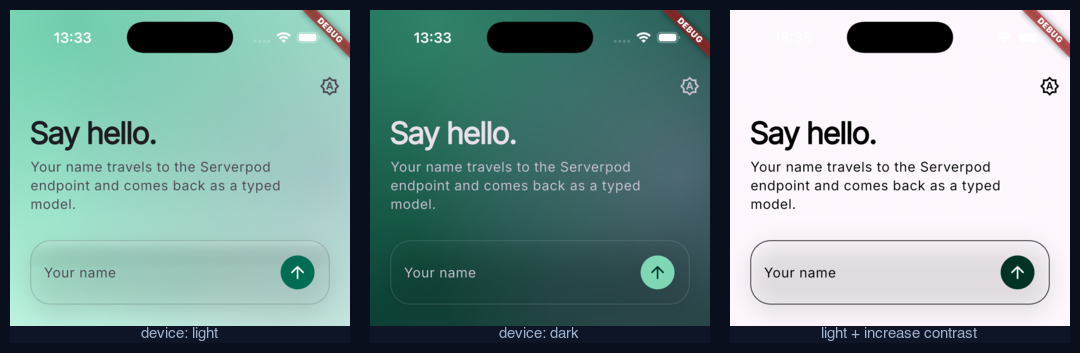
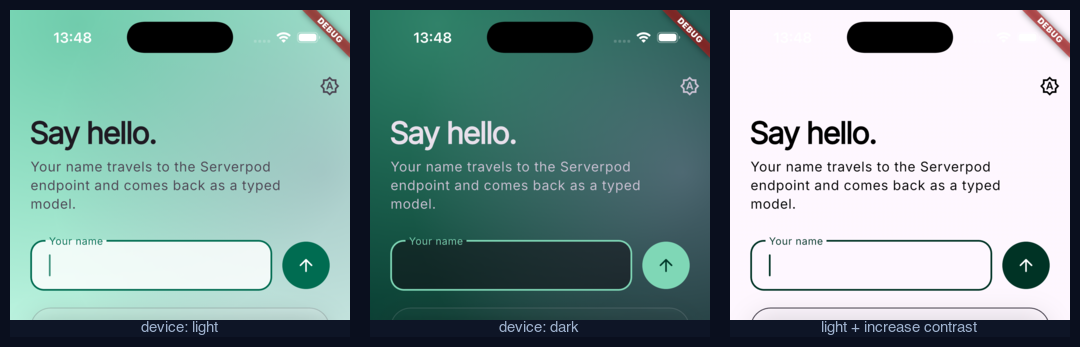
fix: make a field look like a field, and put translucency on a dial

diff --git a/flutter_full_stack_flutter/lib/theme/app_tokens.dart b/flutter_full_stack_flutter/lib/theme/app_tokens.dart
@@ -26,14 +26,27 @@ class AppTokens extends ThemeExtension<AppTokens> with _$AppTokensTailorMixin {
     required this.auroraOne,
     required this.auroraTwo,
     required this.auroraThree,
+    required this.wellFill,
+    required this.wellBorder,
   });
 
   /// Derives the tokens for [scheme].
   ///
-  /// With [highContrast] the glass stops being glass: the blur goes to zero
-  /// and the fill becomes opaque, because a translucent surface cannot honour
-  /// a contrast request. Callers do not branch on it — they read the tokens.
-  factory AppTokens.of(ColorScheme scheme, {required bool highContrast}) {
+  /// [paneTranslucency] and [wellTranslucency] are how see-through each
+  /// material is, from `0` (fully opaque) to `1` (as glassy as the design
+  /// goes). They are separate because the two materials want different
+  /// answers: a card can afford to be barely there, while a field holds text
+  /// the user is reading back as they type.
+  ///
+  /// With [highContrast] both are forced to zero: the glass stops being glass,
+  /// because a translucent surface cannot honour a contrast request. Callers
+  /// do not branch on any of this — they read the tokens.
+  factory AppTokens.of(
+    ColorScheme scheme, {
+    required bool highContrast,
+    required double paneTranslucency,
+    required double wellTranslucency,
+  }) {
     if (highContrast) {
       return AppTokens(
         backdropTop: scheme.surface,
@@ -49,24 +62,43 @@ class AppTokens extends ThemeExtension<AppTokens> with _$AppTokensTailorMixin {
         auroraOne: Colors.transparent,
         auroraTwo: Colors.transparent,
         auroraThree: Colors.transparent,
+        wellFill: scheme.surface,
+        wellBorder: scheme.outline,
       );
     }
 
     final isDark = scheme.brightness == Brightness.dark;
+    final pane = paneTranslucency.clamp(0.0, 1.0);
+    final well = wellTranslucency.clamp(0.0, 1.0);
+
     return AppTokens(
       backdropTop: scheme.primaryContainer,
       backdropBottom: scheme.surface,
-      glassTint: scheme.surface.withValues(alpha: isDark ? 0.18 : 0.55),
+      glassTint: scheme.surface.withValues(
+        alpha: _translucent(isDark ? 0.18 : 0.55, pane),
+      ),
       glassBorder: scheme.onSurface.withValues(alpha: isDark ? 0.16 : 0.22),
-      glassHighlight: Colors.white.withValues(alpha: isDark ? 0.06 : 0.35),
-      glassBlur: isDark ? 18 : 14,
+      glassHighlight: Colors.white.withValues(
+        alpha: (isDark ? 0.06 : 0.35) * pane,
+      ),
+      // Blur follows translucency: a frost nothing shows through is a
+      // BackdropFilter paying for an effect no one can see.
+      glassBlur: (isDark ? 18 : 14) * pane,
       radiusLarge: _radiusLarge,
       radiusMedium: _radiusMedium,
       auroraOne: scheme.primary.withValues(alpha: isDark ? 0.38 : 0.30),
       auroraTwo: scheme.tertiary.withValues(alpha: isDark ? 0.32 : 0.26),
       auroraThree: scheme.secondary.withValues(alpha: isDark ? 0.26 : 0.20),
+      wellFill: scheme.surfaceContainerLowest.withValues(
+        alpha: _translucent(isDark ? 0.55 : 0.82, well),
+      ),
+      wellBorder: scheme.outlineVariant,
     );
   }
+
+  /// Interpolates between opaque and [glassy] by [t], so `0` always means
+  /// solid regardless of what the glassy end of the scale happens to be.
+  static double _translucent(double glassy, double t) => 1 - t * (1 - glassy);
 
   static const _radiusLarge = 24.0;
   static const _radiusMedium = 16.0;
@@ -119,4 +151,18 @@ class AppTokens extends ThemeExtension<AppTokens> with _$AppTokensTailorMixin {
   /// Third aurora pool.
   @override
   final Color auroraThree;
+
+  /// Fill for a control the user types into.
+  ///
+  /// Deliberately not [glassTint]. A glass pane is *raised* — outer shadow,
+  /// sheen along the top — and a field has to read as *recessed*, or it looks
+  /// like a decorative tile that happens to contain a placeholder. Denser and
+  /// darker than the surface around it is what says "this is a well".
+  @override
+  final Color wellFill;
+
+  /// Edge of a well. Crisper than [glassBorder], because a field needs a
+  /// boundary the eye can find without hunting.
+  @override
+  final Color wellBorder;
 }

diff --git a/flutter_full_stack_flutter/lib/theme/app_theme.dart b/flutter_full_stack_flutter/lib/theme/app_theme.dart
@@ -15,6 +15,18 @@ abstract final class AppTheme {
   /// token in [AppTokens], because those are derived from the scheme too.
   static const seed = Color(0xFF6C5CE7);
 
+  /// How see-through a glass pane is: `0` is a solid card, `1` is as glassy
+  /// as the design goes.
+  ///
+  /// Separate from [wellTranslucency] because the two materials want
+  /// different answers. Dialling this down also reduces the blur, since a
+  /// frost nothing shows through costs GPU for nothing.
+  static const paneTranslucency = 1.0;
+
+  /// How see-through a field is. Lower it toward `0` if typed text is hard to
+  /// read against a busy backdrop; a well is about legibility first.
+  static const wellTranslucency = 1.0;
+
   /// Change this line to change the app's font everywhere.
   ///
   /// Any `GoogleFonts.*TextTheme` works. Note that google_fonts downloads the
@@ -53,7 +65,12 @@ abstract final class AppTheme {
       // AppTokens.of moves the glass.
       contrastLevel: highContrast ? 1 : 0,
     );
-    final tokens = AppTokens.of(scheme, highContrast: highContrast);
+    final tokens = AppTokens.of(
+      scheme,
+      highContrast: highContrast,
+      paneTranslucency: paneTranslucency,
+      wellTranslucency: wellTranslucency,
+    );
     final base = ThemeData(colorScheme: scheme);
 
     return base.copyWith(
@@ -67,16 +84,23 @@ abstract final class AppTheme {
         elevation: 0,
         scrolledUnderElevation: 0,
       ),
+      // A field is a well, not a pane: the fill is denser than the glass and
+      // there is no sheen, because a highlight sitting where the text goes is
+      // what makes an input look like a button.
       inputDecorationTheme: InputDecorationTheme(
         filled: true,
-        fillColor: tokens.glassTint,
+        fillColor: tokens.wellFill,
+        contentPadding: const EdgeInsets.symmetric(
+          horizontal: 18,
+          vertical: 18,
+        ),
         border: OutlineInputBorder(
           borderRadius: BorderRadius.circular(tokens.radiusMedium),
-          borderSide: BorderSide(color: tokens.glassBorder),
+          borderSide: BorderSide(color: tokens.wellBorder),
         ),
         enabledBorder: OutlineInputBorder(
           borderRadius: BorderRadius.circular(tokens.radiusMedium),
-          borderSide: BorderSide(color: tokens.glassBorder),
+          borderSide: BorderSide(color: tokens.wellBorder),
         ),
         focusedBorder: OutlineInputBorder(
           borderRadius: BorderRadius.circular(tokens.radiusMedium),

diff --git a/flutter_full_stack_flutter/lib/theme/app_tokens.tailor.dart b/flutter_full_stack_flutter/lib/theme/app_tokens.tailor.dart
@@ -21,6 +21,8 @@ mixin _$AppTokensTailorMixin on ThemeExtension<AppTokens> {
   Color get auroraOne;
   Color get auroraTwo;
   Color get auroraThree;
+  Color get wellFill;
+  Color get wellBorder;
 
   @override
   AppTokens copyWith({
@@ -35,6 +37,8 @@ mixin _$AppTokensTailorMixin on ThemeExtension<AppTokens> {
     Color? auroraOne,
     Color? auroraTwo,
     Color? auroraThree,
+    Color? wellFill,
+    Color? wellBorder,
   }) {
     return AppTokens(
       backdropTop: backdropTop ?? this.backdropTop,
@@ -48,6 +52,8 @@ mixin _$AppTokensTailorMixin on ThemeExtension<AppTokens> {
       auroraOne: auroraOne ?? this.auroraOne,
       auroraTwo: auroraTwo ?? this.auroraTwo,
       auroraThree: auroraThree ?? this.auroraThree,
+      wellFill: wellFill ?? this.wellFill,
+      wellBorder: wellBorder ?? this.wellBorder,
     );
   }
 
@@ -66,6 +72,8 @@ mixin _$AppTokensTailorMixin on ThemeExtension<AppTokens> {
       auroraOne: Color.lerp(auroraOne, other.auroraOne, t)!,
       auroraTwo: Color.lerp(auroraTwo, other.auroraTwo, t)!,
       auroraThree: Color.lerp(auroraThree, other.auroraThree, t)!,
+      wellFill: Color.lerp(wellFill, other.wellFill, t)!,
+      wellBorder: Color.lerp(wellBorder, other.wellBorder, t)!,
     );
   }
 
@@ -105,6 +113,11 @@ mixin _$AppTokensTailorMixin on ThemeExtension<AppTokens> {
             const DeepCollectionEquality().equals(
               auroraThree,
               other.auroraThree,
+            ) &&
+            const DeepCollectionEquality().equals(wellFill, other.wellFill) &&
+            const DeepCollectionEquality().equals(
+              wellBorder,
+              other.wellBorder,
             ));
   }
 
@@ -123,6 +136,8 @@ mixin _$AppTokensTailorMixin on ThemeExtension<AppTokens> {
       const DeepCollectionEquality().hash(auroraOne),
       const DeepCollectionEquality().hash(auroraTwo),
       const DeepCollectionEquality().hash(auroraThree),
+      const DeepCollectionEquality().hash(wellFill),
+      const DeepCollectionEquality().hash(wellBorder),
     );
   }
 }

diff --git a/flutter_full_stack_flutter/lib/features/greetings/presentation/greetings_screen.dart b/flutter_full_stack_flutter/lib/features/greetings/presentation/greetings_screen.dart
@@ -137,34 +137,31 @@ class _NameField extends StatelessWidget {
 
   @override
   Widget build(BuildContext context) {
-    return GlassSurface(
-      padding: const EdgeInsets.fromLTRB(16, 14, 14, 14),
-      child: Row(
-        children: [
-          Expanded(
-            child: TextField(
-              controller: controller,
-              onSubmitted: (_) => onSubmit(),
-              textInputAction: TextInputAction.send,
-              decoration: const InputDecoration(
-                hintText: 'Your name',
-                filled: false,
-                border: InputBorder.none,
-                enabledBorder: InputBorder.none,
-                focusedBorder: InputBorder.none,
-                contentPadding: EdgeInsets.zero,
-                isDense: true,
-              ),
+    // No GlassSurface here on purpose. The field carries the theme's own well
+    // treatment, which reads as something to type into; the pane treatment is
+    // reserved for surfaces that display rather than accept.
+    return Row(
+      children: [
+        Expanded(
+          child: TextField(
+            controller: controller,
+            onSubmitted: (_) => onSubmit(),
+            textInputAction: TextInputAction.send,
+            decoration: const InputDecoration(
+              labelText: 'Your name',
             ),
           ),
-          const SizedBox(width: 12),
-          IconButton.filled(
-            onPressed: onSubmit,
-            icon: const Icon(Icons.arrow_upward_rounded),
-            tooltip: 'Send',
+        ),
+        const SizedBox(width: 12),
+        IconButton.filled(
+          onPressed: onSubmit,
+          icon: const Icon(Icons.arrow_upward_rounded),
+          tooltip: 'Send',
+          style: IconButton.styleFrom(
+            minimumSize: const Size.square(56),
           ),
-        ],
-      ),
+        ),
+      ],
     );
   }
 }

diff --git a/docs/theming.md b/docs/theming.md
@@ -86,6 +86,28 @@ static TextTheme _font(TextTheme base) => GoogleFonts.interTextTheme(base);
 Any `GoogleFonts.*TextTheme` works — but the faces are bundled, so a new
 family also means new files in `assets/fonts/`. See *Adding a font weight*.
 
+**How see-through the surfaces are.** Two knobs, because the two materials
+want different answers:
+
+```dart
+static const paneTranslucency = 1.0;  // cards
+static const wellTranslucency = 1.0;  // fields
+```
+
+`0` is fully opaque, `1` is as glassy as the design goes. Lowering
+`paneTranslucency` also lowers the blur proportionally — a frost that nothing
+shows through is a `BackdropFilter` paying for an effect no one can see, and at
+`0` none is inserted at all. Measured on the light scheme:
+
+| knob | 1.0 | 0.5 | 0.0 |
+|---|---|---|---|
+| pane fill alpha | 0.55 | 0.78 | 1.00 |
+| well fill alpha | 0.82 | 0.91 | 1.00 |
+| blur sigma | 14 | 7 | 0 |
+
+Reach for `wellTranslucency` first if typed text is hard to read against a busy
+backdrop. A field is about legibility before it is about looking good.
+
 **A new token.** Add the field, run the generator:
 
 ```dart
@@ -134,6 +156,24 @@ That is the reason the tokens are a `ThemeExtension` rather than global
 constants behind an `if (isDark)`. When the device flips at sunset, Flutter
 animates between the two `ThemeData`, and the generated `lerp` carries the glass
 tint and blur along with the colours. Constants would snap mid-transition.
+
+## Two materials
+
+The design system has two surface treatments, and which one to use is not a
+style choice — it says what the surface does.
+
+| | **Well** — `wellFill`, `wellBorder` | **Pane** — `GlassSurface` |
+|---|---|---|
+| Reads as | recessed | raised |
+| Cues | denser fill, crisp border, no sheen | outer shadow, sheen along the top |
+| Radius | `radiusMedium` | `radiusLarge` |
+| For | anything the user types into | anything that displays |
+
+Getting this backwards is a specific, recognisable mistake: an input wrapped in
+a `GlassSurface` gets an outer shadow and a highlight running across exactly
+where the text sits, so it reads as a decorative tile that happens to contain a
+placeholder rather than as something to type in. Fields carry the theme's own
+`inputDecorationTheme`, which is the well, and are not wrapped in a pane.
 
 ## Using the glass
 
